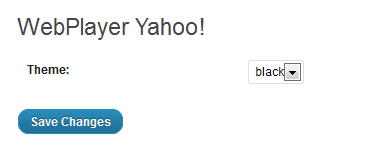
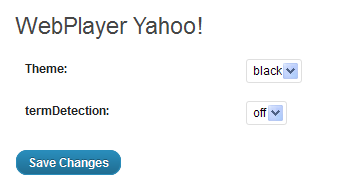
git-svn-id: https://plugins.svn.wordpress.org/webplayer-yahoo/trunk@453353 b8457f37-d9ea-0310-8a92-e5e31aec5664

diff --git a/webplayer-yahoo.php b/webplayer-yahoo.php
@@ -4,7 +4,7 @@
 Plugin Name: WebPlayer Yahoo!
 Plugin URI: http://www.pivari.com/
 Description: A simple Plugin to add WebPlayer Yahoo! code on your pages.
-Version: 0.4.0
+Version: 0.6.0
 Author: Fabrizio Pivari
 Author URI: http://www.pivari.com
  */
@@ -35,15 +35,18 @@ if (!defined('WP_PLUGIN_DIR'))
       define('WP_PLUGIN_DIR', WP_CONTENT_DIR.'/plugins');
 
 function activate_webplayer() {
-  add_option('theme', 'black');
+	add_option('theme', 'black');
+	add_option('termDetection', 'off');
 }
 
 function deactive_webplayer() {
   delete_option('theme');
+  delete_option('termDetection');
 }
 
 function admin_init_webplayer() {
   register_setting('webplayer', 'theme');
+  register_setting('webplayer', 'termDetection');
 }
 
 function admin_menu_webplayer() {
@@ -55,11 +58,15 @@ function options_page_webplayer() {
 }
 
 function webplayer() {
-  if (get_option('theme') == 'silver') {
-     echo '<script type="text/javascript"> var YWPParams = { theme: "silver" }; </script> <script type="text/javascript" src="http://webplayer.yahooapis.com/player-beta.js"> </script>';
-     }  else {
-     echo '<script type="text/javascript" src="http://webplayer.yahooapis.com/player-beta.js"></script>';
-     } 
+  $options='<script type="text/javascript"> var YWPParams = { ';
+  $theme = get_option('theme');
+  $options = $options . 'theme: "' . $theme . '",';
+  $termDetection = get_option('termDetection');
+  $options = $options . 'termDetection: "' . $termDetection. '"';
+  $options = $options . '}; </script>';
+  echo $options;
+  echo '<script type="text/javascript" src="http://webplayer.yahooapis.com/player-beta.js"></script>';
+
 }
 
 register_activation_hook(__FILE__, 'activate_webplayer');

diff --git a/options.php b/options.php
@@ -15,6 +15,14 @@
     <option value="silver" <?php if (get_option('theme') == 'silver') echo "selected=selected" ?>>silver</option>
   </select>
 </td>
+</tr><tr valign="top">
+<th scape="row"><b>termDetection:</b></th>
+<td>
+  <select name="termDetection">
+    <option value="off" <?php if (get_option('termDetection') == 'off') echo "selected=selected" ?>>off</option>
+    <option value="on"  <?php if (get_option('termDetection') == 'on') echo "selected=selected" ?>>on</option>
+  </select>
+</td>
 </tr>
 
 </table>
